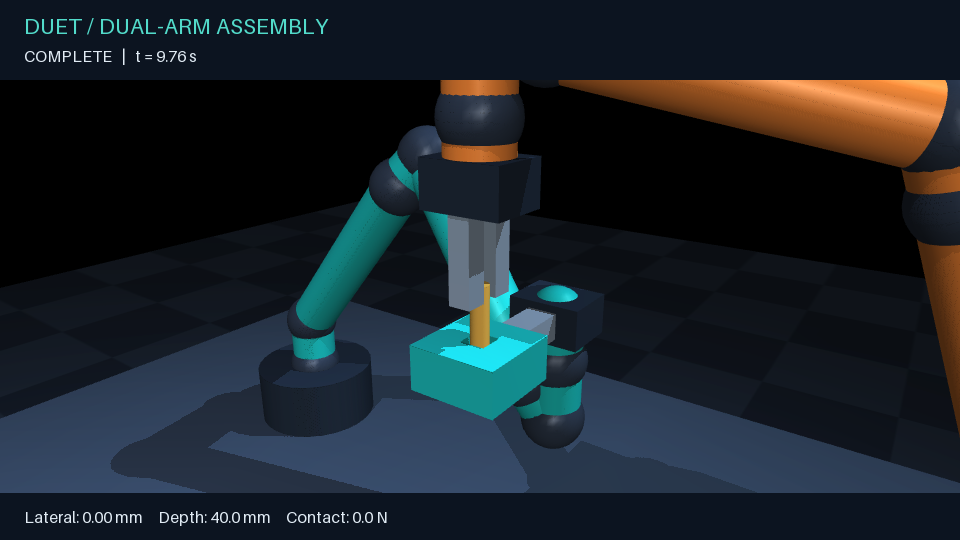
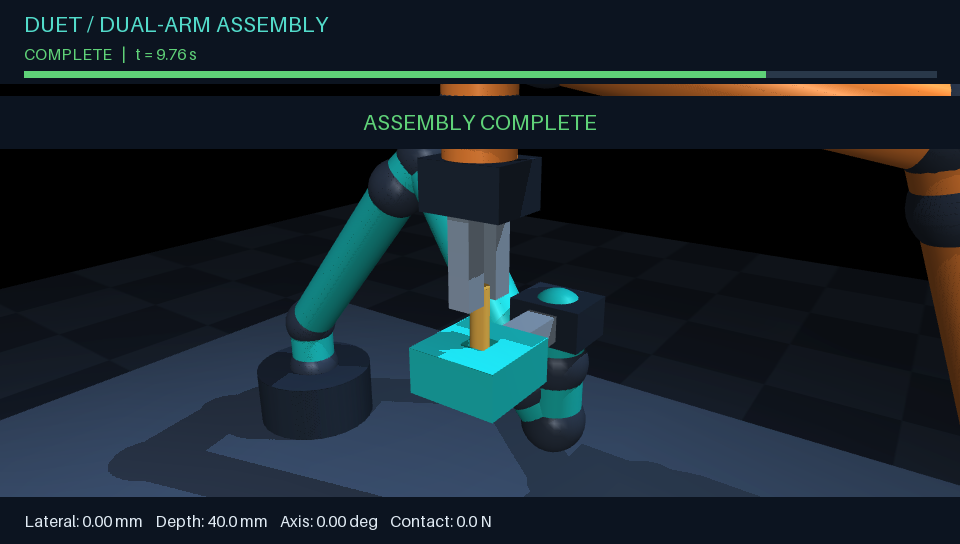
Add MP4 recording, richer video HUD, benchmark stats, and report threshold guides
- record: write annotated MP4 (H.264 via imageio-ffmpeg) alongside the GIF,
  selectable with --format mp4|gif|both; frames are 960x544 so encoding
  never rescales
- record: overlay now shows a phase-colored trial progress bar, axis error,
  and a final SUCCESS/failure banner
- benchmark: summary.json gains per-status counts and mean/median/min/max
  statistics for lateral error, axis error, and peak contact force
- report: add an axis-alignment chart and draw the success thresholds
  (3 mm lateral, 36-44 mm depth, 2 deg axis, force limit) as dashed guide
  lines on every chart; add a final-depth card; drop the BIMANUAL string
  patch hack
- simulation: expose a progress property for the HUD
- docs: refresh demo GIF/PNG with the new overlay, note Linux revalidation
  (20/20 randomized trials, identical jam abort as Windows)
- tests: cover benchmark statistics, report guides, and progress

diff --git a/src/dual_arm_assembly/cli.py b/src/dual_arm_assembly/cli.py
@@ -8,6 +8,7 @@ from dataclasses import replace
 from pathlib import Path
 
 import mujoco
+import numpy as np
 
 from .reporting import save_run
 from .scene import build_scene
@@ -28,7 +29,7 @@ def parser():
         ("demo", "Open the interactive simulation"),
         ("run", "Run one trial without a display"),
         ("benchmark", "Evaluate seeded workspace variations"),
-        ("record", "Render an annotated animated GIF"),
+        ("record", "Render an annotated MP4 video and/or animated GIF"),
     ):
         p = sub.add_parser(command, help=help_text)
         p.add_argument("--seed", type=int, default=0)
@@ -48,6 +49,12 @@ def parser():
             p.add_argument("--trials", type=positive_int, default=20)
         if command == "record":
             p.add_argument("--fps", type=positive_int, default=20)
+            p.add_argument(
+                "--format",
+                choices=("mp4", "gif", "both"),
+                default="both",
+                help="Container(s) to write; MP4 needs ffmpeg via imageio-ffmpeg",
+            )
     export = sub.add_parser("export", help="Write the complete scene as MJCF XML")
     export.add_argument("--output", type=Path, default=Path("runs/scene.xml"))
     return root
@@ -98,11 +105,53 @@ def demo(sim, args):
     save_run(sim, args.output)
 
 
+# Progress-bar colors keyed by state-machine phase, matched to the report palette.
+PHASE_COLORS = {
+    "SETTLE": (110, 126, 143),
+    "TRANSFER": (86, 156, 214),
+    "ALIGN": (222, 196, 120),
+    "INSERT": (245, 133, 51),
+    "HOLD": (82, 219, 202),
+    "COMPLETE": (95, 210, 120),
+    "ABORT": (235, 87, 87),
+}
+
+
+def annotate(sim, frame):
+    from PIL import ImageDraw, ImageFont
+
+    font = ImageFont.load_default(size=22)
+    small = ImageFont.load_default(size=16)
+    width, height = frame.size
+    draw = ImageDraw.Draw(frame)
+    color = PHASE_COLORS.get(sim.phase, (225, 235, 244))
+    draw.rectangle((0, 0, width, 83), fill=(12, 20, 32))
+    draw.text((24, 10), "DUET / DUAL-ARM ASSEMBLY", font=font, fill=(82, 219, 202))
+    draw.text((24, 44), f"{sim.phase}   |   t = {sim.data.time:.2f} s", font=small, fill=color)
+    draw.rectangle((24, 71, width - 24, 77), fill=(41, 56, 73))
+    draw.rectangle((24, 71, 24 + (width - 48) * sim.progress, 77), fill=color)
+    metrics = sim.measurements()
+    draw.rectangle((0, height - 47, width, height), fill=(12, 20, 32))
+    label = (
+        f"Lateral: {metrics['lateral_error_mm']:.2f} mm    "
+        f"Depth: {metrics['insertion_depth_mm']:.1f} mm    "
+        f"Axis: {metrics['angle_error_deg']:.2f} deg    "
+        f"Contact: {sim.contact_force:.1f} N"
+    )
+    draw.text((24, height - 33), label, font=small, fill=(225, 235, 244))
+    if sim.done:
+        banner = "ASSEMBLY COMPLETE" if sim.status == "success" else sim.status.upper()
+        box = draw.textbbox((0, 0), banner, font=font)
+        draw.rectangle((0, 96, width, 148), fill=(12, 20, 32))
+        draw.text(((width - box[2]) / 2, 108), banner, font=font, fill=color)
+    return frame
+
+
 def record(sim, args):
     try:
         import imageio.v2 as imageio
         import numpy as np
-        from PIL import Image, ImageDraw, ImageFont
+        from PIL import Image
     except ImportError as error:
         raise RuntimeError('Recording needs: pip install -e ".[record]"') from error
     if args.fps > 60:
@@ -110,30 +159,12 @@ def record(sim, args):
     args.output.mkdir(parents=True, exist_ok=True)
     frames = []
     next_frame = 0.0
-    font = ImageFont.load_default(size=22)
-    small = ImageFont.load_default(size=16)
-    with mujoco.Renderer(sim.model, height=540, width=960) as renderer:
+    # 960x544 keeps both dimensions divisible by 16, so MP4 encoding never rescales.
+    with mujoco.Renderer(sim.model, height=544, width=960) as renderer:
         while True:
             if sim.data.time >= next_frame or sim.done:
                 renderer.update_scene(sim.data, camera=args.camera)
-                frame = Image.fromarray(renderer.render())
-                draw = ImageDraw.Draw(frame)
-                draw.rectangle((0, 0, 960, 79), fill=(12, 20, 32))
-                draw.text((24, 12), "DUET / DUAL-ARM ASSEMBLY", font=font, fill=(82, 219, 202))
-                draw.text(
-                    (24, 46),
-                    f"{sim.phase}   |   t = {sim.data.time:.2f} s",
-                    font=small,
-                    fill=(225, 235, 244),
-                )
-                metrics = sim.measurements()
-                draw.rectangle((0, 493, 960, 540), fill=(12, 20, 32))
-                label = (
-                    f"Lateral: {metrics['lateral_error_mm']:.2f} mm     "
-                    f"Depth: {metrics['insertion_depth_mm']:.1f} mm     "
-                    f"Contact: {sim.contact_force:.1f} N"
-                )
-                draw.text((24, 507), label, font=small, fill=(225, 235, 244))
+                frame = annotate(sim, Image.fromarray(renderer.render()))
                 frames.append(np.array(frame))
                 next_frame += 1 / args.fps
             if sim.done:
@@ -141,9 +172,21 @@ def record(sim, args):
             sim.step()
         frame.save(args.output / "final.png")
     frames.extend([frames[-1]] * args.fps)
-    imageio.mimsave(args.output / "assembly.gif", frames, duration=1000 / args.fps, loop=0)
+    written = []
+    if args.format in ("mp4", "both"):
+        try:
+            imageio.mimsave(args.output / "assembly.mp4", frames, fps=args.fps, quality=8)
+            written.append("assembly.mp4")
+        except Exception as error:
+            raise RuntimeError(
+                'MP4 encoding needs ffmpeg: pip install -e ".[record]" imageio-ffmpeg'
+            ) from error
+    if args.format in ("gif", "both"):
+        imageio.mimsave(args.output / "assembly.gif", frames, duration=1000 / args.fps, loop=0)
+        written.append("assembly.gif")
     save_run(sim, args.output)
-    print(f"Recording saved to {args.output.resolve() / 'assembly.gif'}")
+    for name in written:
+        print(f"Recording saved to {args.output.resolve() / name}")
 
 
 def main(argv=None):
@@ -171,16 +214,37 @@ def main(argv=None):
                 save_run(sim, args.output / f"seed-{config.seed + i:04d}")
                 print(f"[{i + 1}/{args.trials}] seed={config.seed + i}: {sim.status}")
             successes = sum(result["success"] for result in results)
+            statuses = {}
+            for result in results:
+                statuses[result["status"]] = statuses.get(result["status"], 0) + 1
+            stats = {
+                field: {
+                    "mean": float(np.mean(values)),
+                    "median": float(np.median(values)),
+                    "min": float(np.min(values)),
+                    "max": float(np.max(values)),
+                }
+                for field in ("lateral_error_mm", "angle_error_deg", "peak_contact_force_n")
+                for values in [[result[field] for result in results]]
+            }
             summary = {
                 "trials": args.trials,
                 "successes": successes,
                 "success_rate": successes / args.trials,
+                "statuses": statuses,
+                "stats": stats,
                 "results": results,
             }
             (args.output / "summary.json").write_text(
                 json.dumps(summary, indent=2), encoding="utf-8"
             )
             print(f"Success rate: {successes}/{args.trials} ({100 * successes / args.trials:.1f}%)")
+            print(
+                f"Lateral error mm: median {stats['lateral_error_mm']['median']:.2f}, "
+                f"max {stats['lateral_error_mm']['max']:.2f} | "
+                f"peak force N: median {stats['peak_contact_force_n']['median']:.2f}, "
+                f"max {stats['peak_contact_force_n']['max']:.2f}"
+            )
             return 0 if successes == args.trials else 1
         sim = AssemblySimulation(config)
         if args.command == "demo":

diff --git a/src/dual_arm_assembly/reporting.py b/src/dual_arm_assembly/reporting.py
@@ -19,22 +19,39 @@ def save_run(sim, directory):
         writer.writeheader()
         writer.writerows(sim.trace)
     charts = []
-    for field, title, unit in (
-        ("lateral_error_mm", "Lateral alignment", "mm"),
-        ("insertion_depth_mm", "Insertion depth", "mm"),
-        ("contact_force_n", "Peg / socket contact force", "N"),
+    for field, title, unit, guides in (
+        ("lateral_error_mm", "Lateral alignment", "mm", [(3.0, "3 mm success limit")]),
+        ("insertion_depth_mm", "Insertion depth", "mm", [(36.0, "min 36"), (44.0, "max 44")]),
+        ("angle_error_deg", "Axis alignment", "deg", [(2.0, "2° success limit")]),
+        (
+            "contact_force_n",
+            "Peg / socket contact force",
+            "N",
+            [(sim.config.force_limit, f"{sim.config.force_limit:g} N abort")],
+        ),
     ):
         values = [row[field] for row in sim.trace]
-        low, high = min(0, min(values)), max(1, max(values))
+        low = min(0, min(values))
+        high = max(1, max(values), *(value for value, _ in guides))
         end = max(sim.data.time, 0.001)
+
+        def scale_y(value, low=low, high=high):
+            return 170 - (value - low) / (high - low) * 140
+
         points = " ".join(
-            f"{45 + row['time'] / end * 690:.1f},"
-            f"{170 - (row[field] - low) / (high - low) * 140:.1f}"
-            for row in sim.trace
+            f"{45 + row['time'] / end * 690:.1f},{scale_y(row[field]):.1f}" for row in sim.trace
+        )
+        guide_marks = "".join(
+            f'<line x1="45" x2="740" y1="{scale_y(value):.1f}" y2="{scale_y(value):.1f}"'
+            f' stroke="#8d6a3f" stroke-dasharray="6 5"/>'
+            f'<text x="452" y="{scale_y(value) - 5:.1f}" fill="#d9a45f" font-size="11">'
+            f"{html.escape(label)}</text>"
+            for value, label in guides
         )
         charts.append(f'''<section><h2>{title}</h2><svg viewBox="0 0 760 205" role="img"
           aria-label="{title} over simulation time"><path d="M45 25V170H740" stroke="#536273"
-          fill="none"/><polyline points="{points}" fill="none" stroke="#52dbca" stroke-width="2.5"/>
+          fill="none"/>{guide_marks}<polyline points="{points}" fill="none" stroke="#52dbca"
+          stroke-width="2.5"/>
           <g fill="#a8b8c9" font-size="12"><text x="3" y="27">{high:.1f}</text>
           <text x="3" y="170">{low:.1f}</text><text x="45" y="195">0 s</text>
           <text x="680" y="195">{end:.2f} s</text><text x="45" y="17">{unit}</text></g>
@@ -47,12 +64,13 @@ def save_run(sim, directory):
     .cards{display:flex;gap:16px;flex-wrap:wrap}.card,section{background:#152130;border:1px solid #293849;
     border-radius:14px;padding:22px;margin:12px 0}.card{flex:1;min-width:160px}
     strong{display:block;font-size:28px;margin-top:8px}svg{width:100%}pre{overflow:auto;font-size:13px}
-    a{color:#52dbca}</style><main><div class="eyebrow">DUET / B IMANUAL ASSEMBLY</div>
+    a{color:#52dbca}</style><main><div class="eyebrow">DUET / BIMANUAL ASSEMBLY</div>
     <h1>Two arms. One precise fit.</h1><p>Physics-driven peg insertion · MuJoCo · deterministic baseline</p>"""
     page += '<div class="cards">'
     for title, value in (
         ("Trial outcome", sim.status.upper()),
         ("Final lateral error", f"{result['lateral_error_mm']:.3f} mm"),
+        ("Final insertion depth", f"{result['insertion_depth_mm']:.1f} mm"),
         ("Peak contact force", f"{sim.peak_force:.2f} N"),
     ):
         page += f'<div class="card">{title}<strong>{value}</strong></div>'
@@ -63,5 +81,5 @@ def save_run(sim, directory):
     A centered peg can pass through the bore with zero contact force.
     Force is the sum of contact-force magnitudes, not a wrist sensor measurement.</p>
     <a href="trace.csv">Download trace CSV</a> · <a href="result.json">Result JSON</a></main></html>"""
-    (directory / "report.html").write_text(page.replace("B IMANUAL", "BIMANUAL"), encoding="utf-8")
+    (directory / "report.html").write_text(page, encoding="utf-8")
     return directory

diff --git a/tests/test_simulation.py b/tests/test_simulation.py
@@ -102,6 +102,34 @@ def test_invalid_configuration(kwargs):
         Config(**kwargs)
 
 
+def test_progress_tracks_time_and_saturates():
+    sim = AssemblySimulation()
+    assert sim.progress == 0.0
+    sim.run()
+    assert 0 < sim.progress <= 1.0
+
+
+def test_report_includes_axis_chart_and_threshold_guides(tmp_path):
+    sim = AssemblySimulation()
+    sim.run()
+    save_run(sim, tmp_path)
+    report = (tmp_path / "report.html").read_text()
+    assert "Axis alignment" in report
+    assert "3 mm success limit" in report
+    assert "35 N abort" in report
+    assert "BIMANUAL" in report
+
+
+def test_cli_benchmark_writes_summary_statistics(tmp_path):
+    assert main(["benchmark", "--trials", "2", "--output", str(tmp_path)]) == 0
+    summary = json.loads((tmp_path / "summary.json").read_text())
+    assert summary["successes"] == 2
+    assert summary["statuses"] == {"success": 2}
+    stats = summary["stats"]["lateral_error_mm"]
+    assert stats["min"] <= stats["median"] <= stats["max"]
+    assert stats["max"] < 3
+
+
 def test_cli_writes_run_and_export(tmp_path):
     assert main(["run", "--output", str(tmp_path / "trial")]) == 0
     assert main(["export", "--output", str(tmp_path / "scene.xml")]) == 0

diff --git a/src/dual_arm_assembly/simulation.py b/src/dual_arm_assembly/simulation.py
@@ -82,6 +82,11 @@ class AssemblySimulation:
     def done(self):
         return self.status != "running"
 
+    @property
+    def progress(self):
+        """Fraction of the configured trial duration that has elapsed, in [0, 1]."""
+        return float(min(self.data.time / self.config.duration, 1.0))
+
     def measurements(self):
         socket = self.data.site("socket_center")
         peg = self.data.site("peg_tip")

diff --git a/README.md b/README.md
@@ -49,21 +49,24 @@ python -m dual_arm_assembly demo --camera closeup
 # One fast trial without a graphics context; writes JSON, CSV, and an HTML report.
 python -m dual_arm_assembly run --output runs/baseline
 
-# Change the assembly location across reproducible seeds.
+# Change the assembly location across reproducible seeds; summary.json includes
+# per-status counts and error/force statistics across trials.
 python -m dual_arm_assembly benchmark --trials 20 --seed 0
 
 # Deliberately hit the rim: terminates with a force-limit failure (exit code 1).
 python -m dual_arm_assembly run --offset-mm 12 --output runs/jam
 
-# Render an annotated GIF and a final PNG; requires the record extra and OpenGL.
+# Render an annotated MP4 video, GIF, and final PNG; requires the record extra
+# and OpenGL. Use --format mp4|gif|both to pick containers.
 python -m dual_arm_assembly record --camera closeup --output runs/movie
 
 # Export the complete, standalone MuJoCo scene.
 python -m dual_arm_assembly export --output runs/scene.xml
 ```
 
-Open `runs/baseline/report.html` for alignment, insertion-depth, and contact-force
-plots. Reports are standalone HTML with no server or network dependencies.
+Open `runs/baseline/report.html` for lateral-alignment, insertion-depth,
+axis-alignment, and contact-force plots with the success thresholds drawn as
+guide lines. Reports are standalone HTML with no server or network dependencies.
 `dual-arm` is also installed as a shorter command alias.
 
 ## What happens

diff --git a/docs/VALIDATION.md b/docs/VALIDATION.md
@@ -18,6 +18,13 @@ These measurements describe this simplified simulation, not hardware accuracy.
 | Passive desktop viewer | Opened, synchronized, and closed successfully |
 | Offscreen recording | Overview and close-up GIF/PNG generated and inspected |
 
+Re-verified on Linux, Python 3.11, MuJoCo 3.14.0, and NumPy 2.4.6: 19 tests
+passed, the randomized benchmark succeeded 20/20 with median and maximum peak
+contact force of 0.00 N, and the deliberate 12 mm bias aborted at the same
+7.962 s with a 36.016 N peak, matching the Windows run exactly. Offscreen
+OSMesa recording produced the annotated MP4 and GIF, and `summary.json` now
+carries per-status counts and lateral-error/axis-error/peak-force statistics.
+
 The tests include a regression check that the nominal arm posture stays above the
 table and the insertion wrist stays above the peg. This geometric check is not a
 general collision detector. Only peg/socket collisions participate in dynamics.
